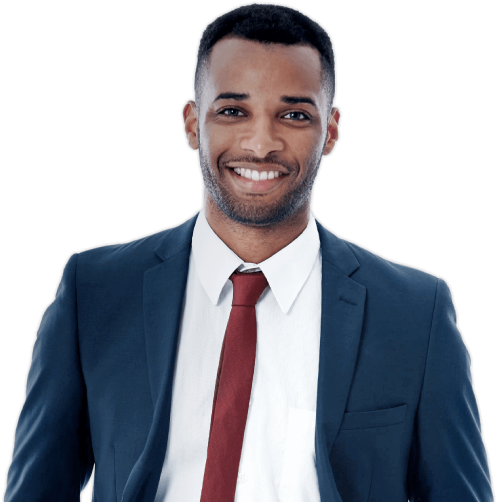
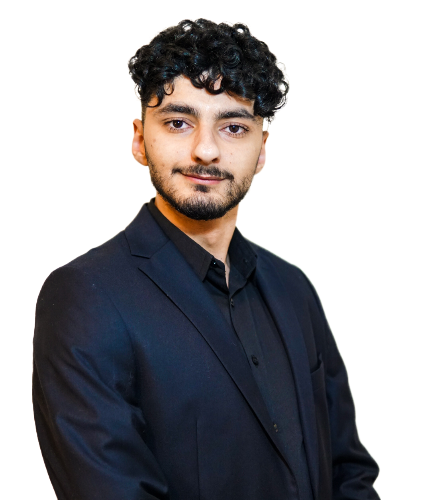
Changed the image to my personal image and upscale

diff --git a/style.css b/style.css
@@ -92,7 +92,7 @@ div:not(.welcome-block) .paragraph-section {
 
 .welcome-block img {
     position: absolute;
-    height: 300px;
+    height: 400px;
     left: 50%;
     z-index: -1;
     transform: translate(-50%,0%);
